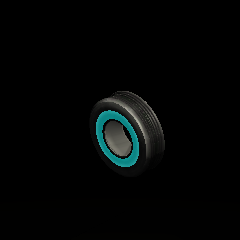
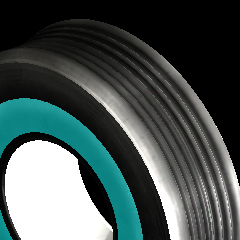
UI adds, camera fix

diff --git a/Assets/Scripts/TireEditing/TireEditor.cs b/Assets/Scripts/TireEditing/TireEditor.cs
@@ -106,11 +106,11 @@ public class TireEditor : MonoBehaviour {
 		RenderTexture tempRT = new RenderTexture(240,240, 16 );
 		virtuCamera.aspect = 1f;
 		if (tireLoad == "TestTire")
-			virtuCamera.orthographicSize = 0.6f;
+			virtuCamera.orthographicSize = 0.45f;
 		if (tireLoad == "KartTire")
 			virtuCamera.orthographicSize = 0.2f;
 		if (tireLoad == "CarTire")
-			virtuCamera.orthographicSize = 0.3f;
+			virtuCamera.orthographicSize = 0.4f;
 		virtuCamera.targetTexture = tempRT;
 		virtuCamera.Render ();
 		RenderTexture.active = tempRT;
@@ -400,7 +400,7 @@ public class TireEditor : MonoBehaviour {
 			GameObject lPrefab = Resources.Load ("UI/" + "LoadThumbButton", typeof(GameObject)) as GameObject;
 			GameObject lInst = Instantiate (lPrefab, this.transform.position, this.transform.rotation) as GameObject;
 			lInst.name = "LoadThumbButton" + i;
-			lInst.GetComponentInChildren<Text>().text = UITire + i;
+			lInst.GetComponentInChildren<Text>().text = UITire + i + ".tir";
 			Texture2D img = new Texture2D(2,2);
 			img.LoadImage(File.ReadAllBytes(Application.dataPath + "/" + "Resources/Thumbs/" + UITire + i + ".png"));
 			lInst.GetComponent<Image>().sprite = Sprite.Create(img,
@@ -431,7 +431,7 @@ public class TireEditor : MonoBehaviour {
 			GameObject sPrefab = Resources.Load ("UI/" + "ThumbButton", typeof(GameObject)) as GameObject;
 			GameObject sInst = Instantiate (sPrefab, this.transform.position, this.transform.rotation) as GameObject;
 			sInst.name = "ThumbButton" + i;
-			sInst.GetComponentInChildren<Text>().text = UITire + i;
+			sInst.GetComponentInChildren<Text>().text = UITire + i + ".tir";
 			Texture2D img = new Texture2D(2,2);
 			img.LoadImage(File.ReadAllBytes(Application.dataPath + "/" + "Resources/Thumbs/" + UITire + i + ".png"));
 			sInst.GetComponent<Image>().sprite = Sprite.Create(img,

diff --git a/Assets/Scripts/Camera/MouseOrbitOrtho.cs b/Assets/Scripts/Camera/MouseOrbitOrtho.cs
@@ -58,15 +58,18 @@ public class MouseOrbitOrtho : MonoBehaviour {
 
 
 		//getMinZoom ();
+		if (flickerCamera) {
+			baseFreq += flickerFrequency;
+			if (baseFreq > 20) {
+				baseFreq = 0;
 
-		baseFreq += flickerFrequency;
-		if (baseFreq > 20) {
-			baseFreq = 0;
+				thisCamera.enabled = true;
+				thisCamera.Render ();
+				thisCamera.enabled = false;
 
+			}
+		} else {
 			thisCamera.enabled = true;
-			thisCamera.Render();
-			thisCamera.enabled = false;
-
 		}
 
 
